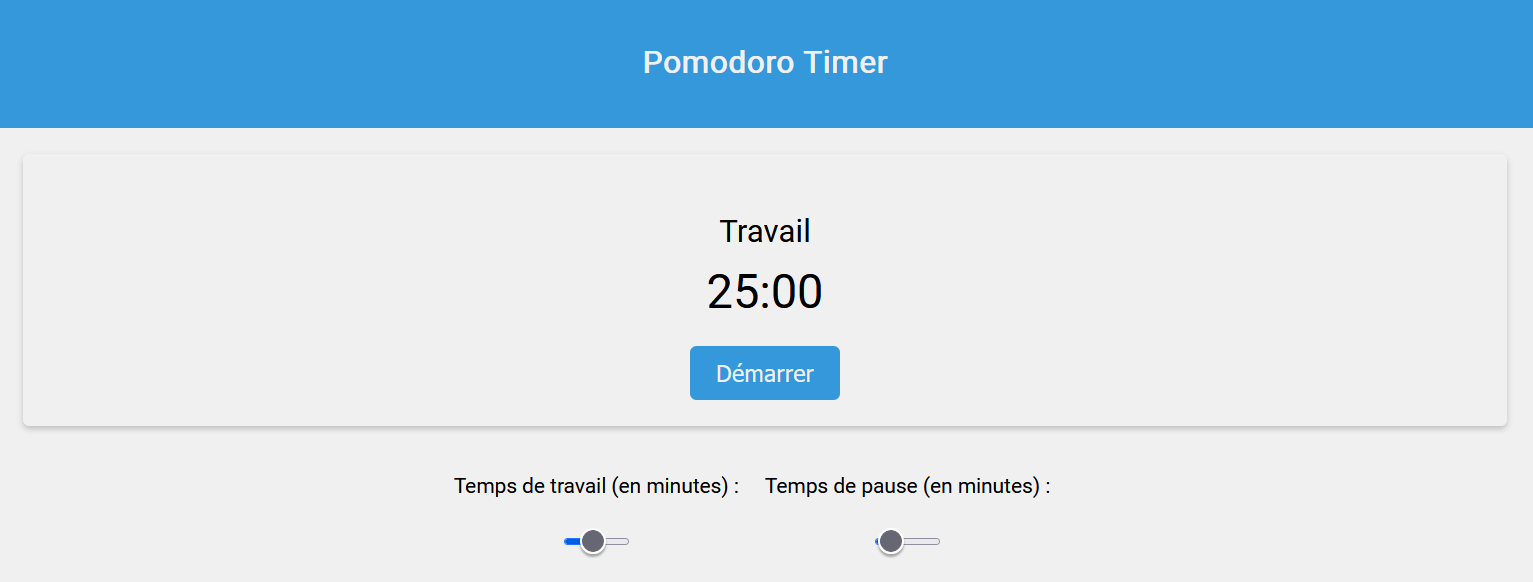
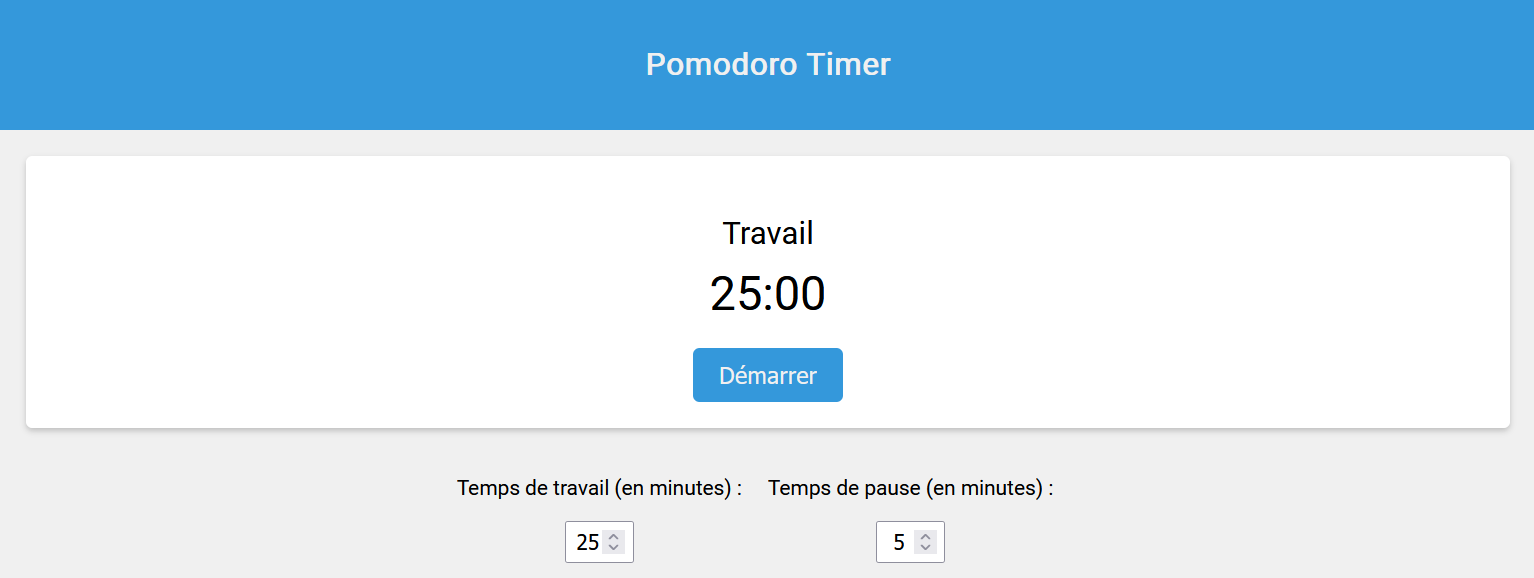
modification ReadMe

diff --git a/README.md b/README.md
@@ -8,9 +8,9 @@ Pomodoro Timer is a simple web application for time management based on the Pomo
 
 - Open the file `index.html` in your web browser.
 
-- The default working time is 25 minutes, but you can adjust it using the slider.
+- The default working time is 25 minutes, but you can adjust it using the field.
 
-- The default pause time is 5 minutes, also adjustable via the slider.
+- The default pause time is 5 minutes, also adjustable via the field.
 
 - Click the "Start" button to begin timing.
 
